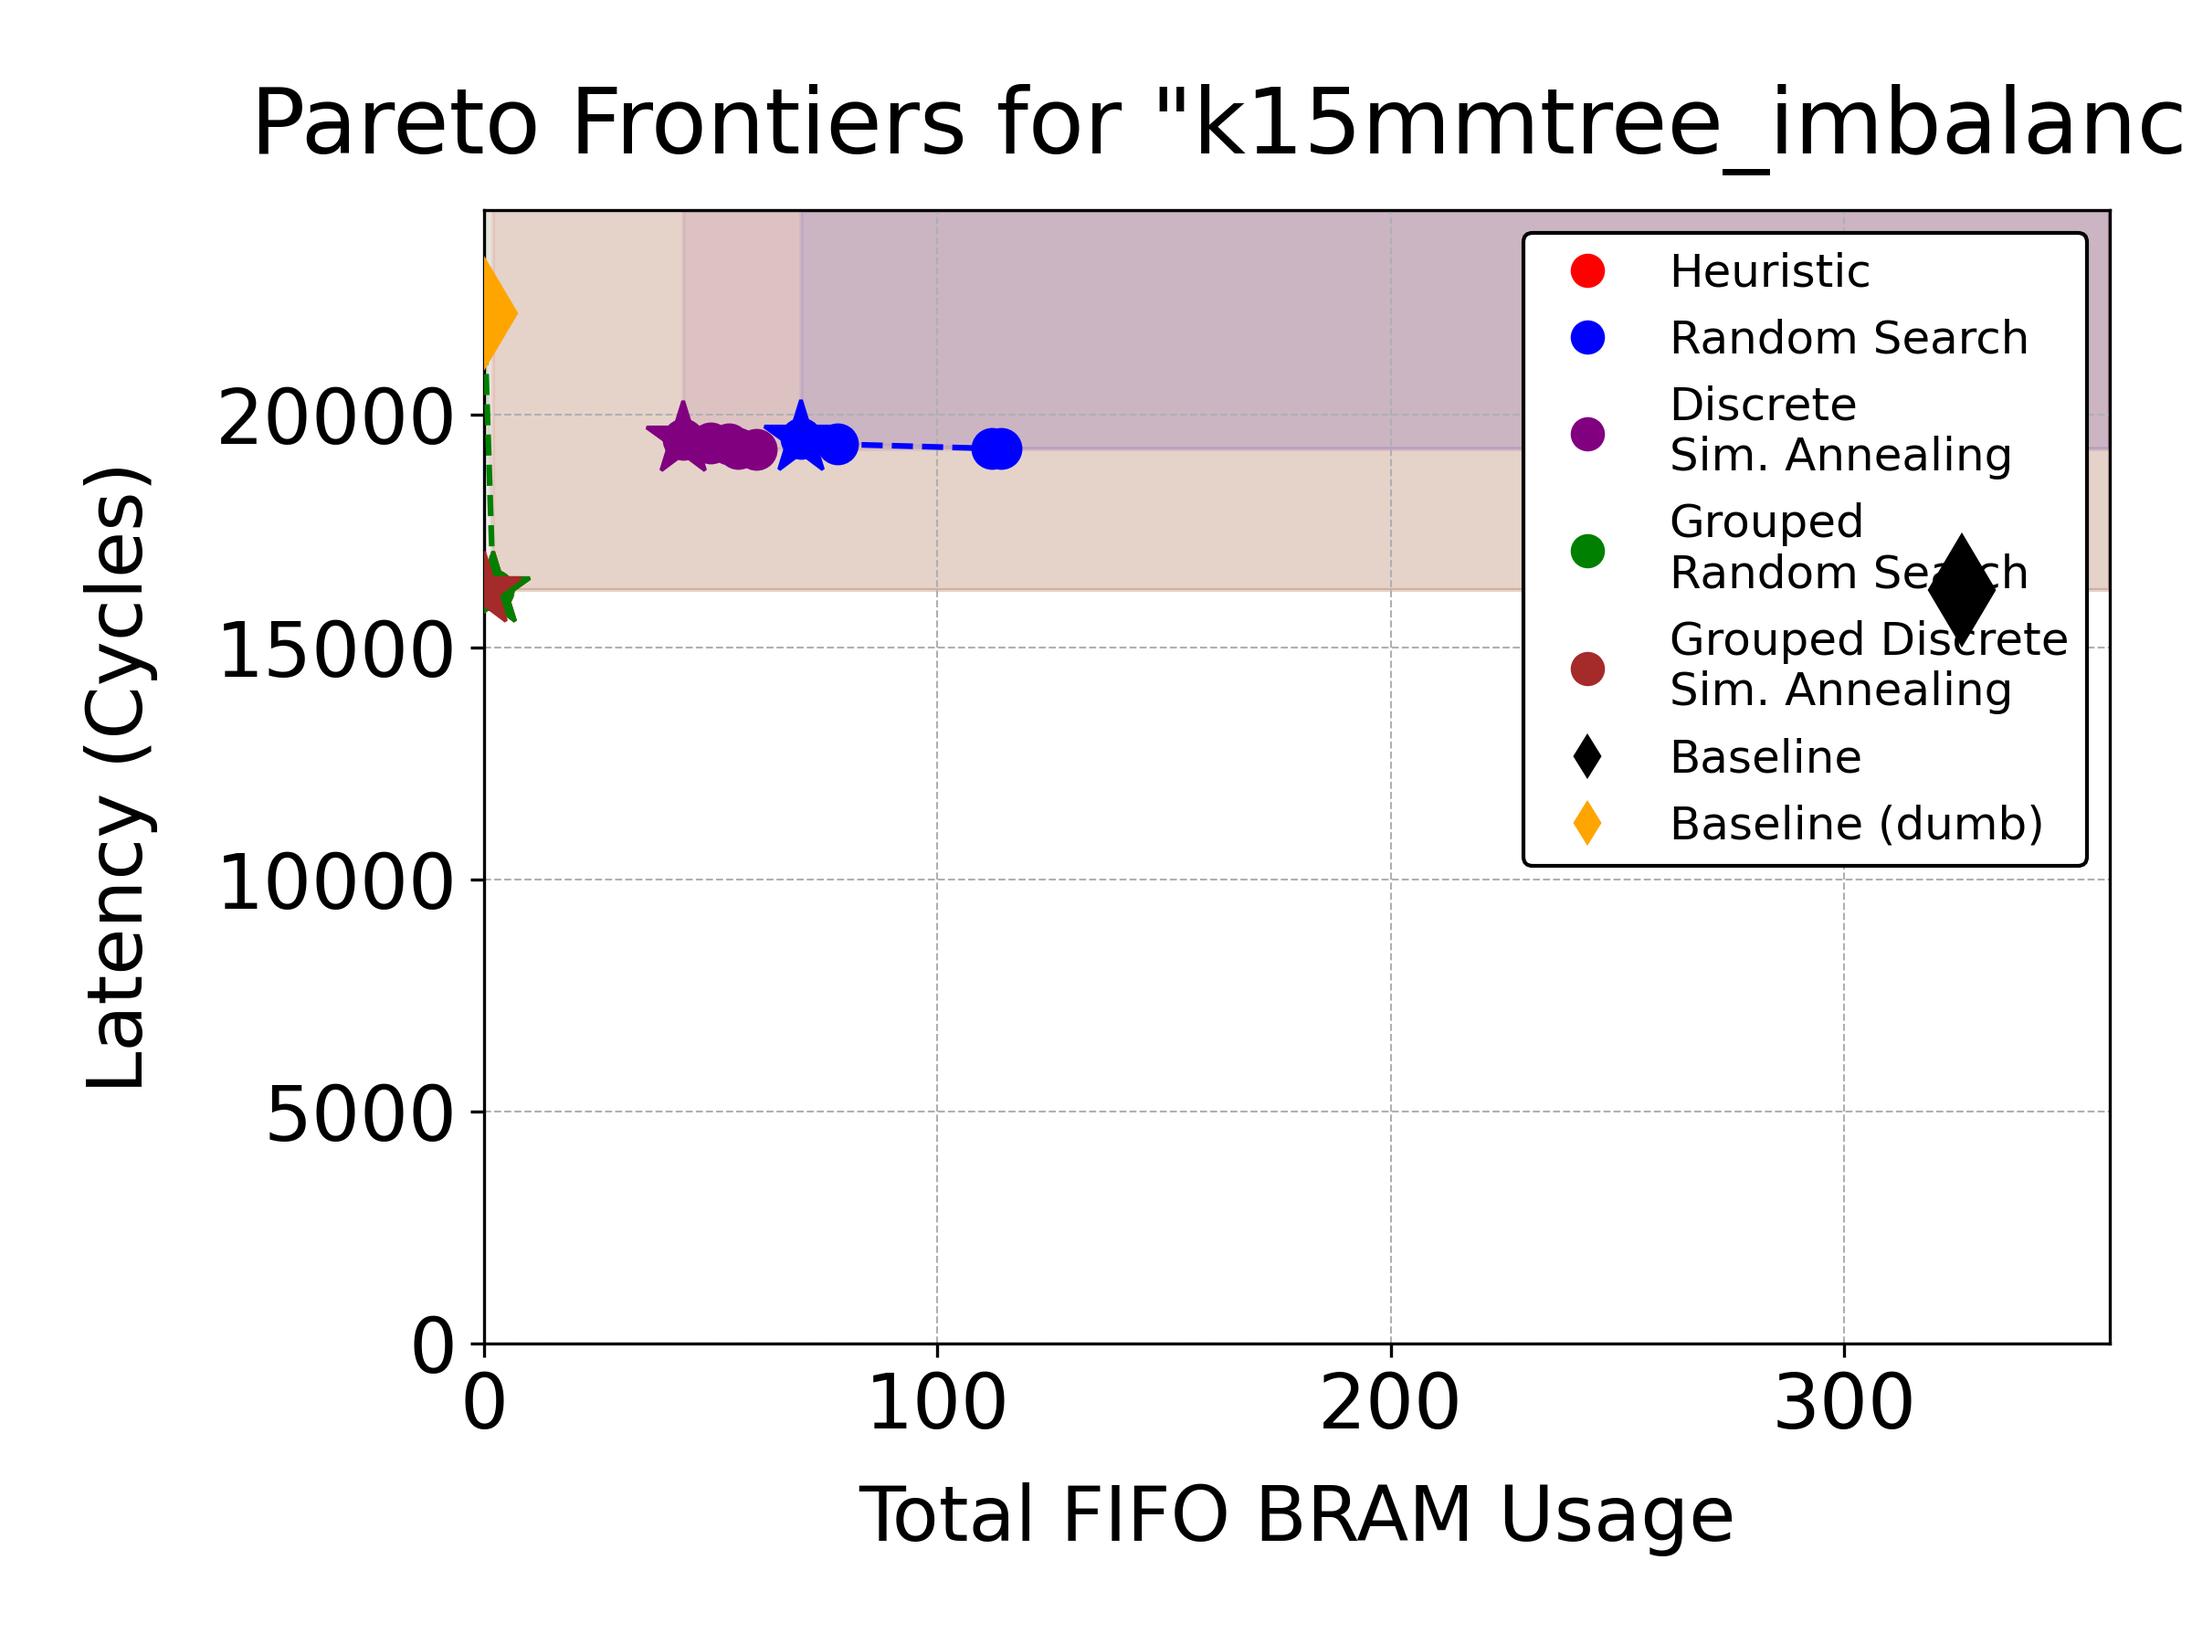
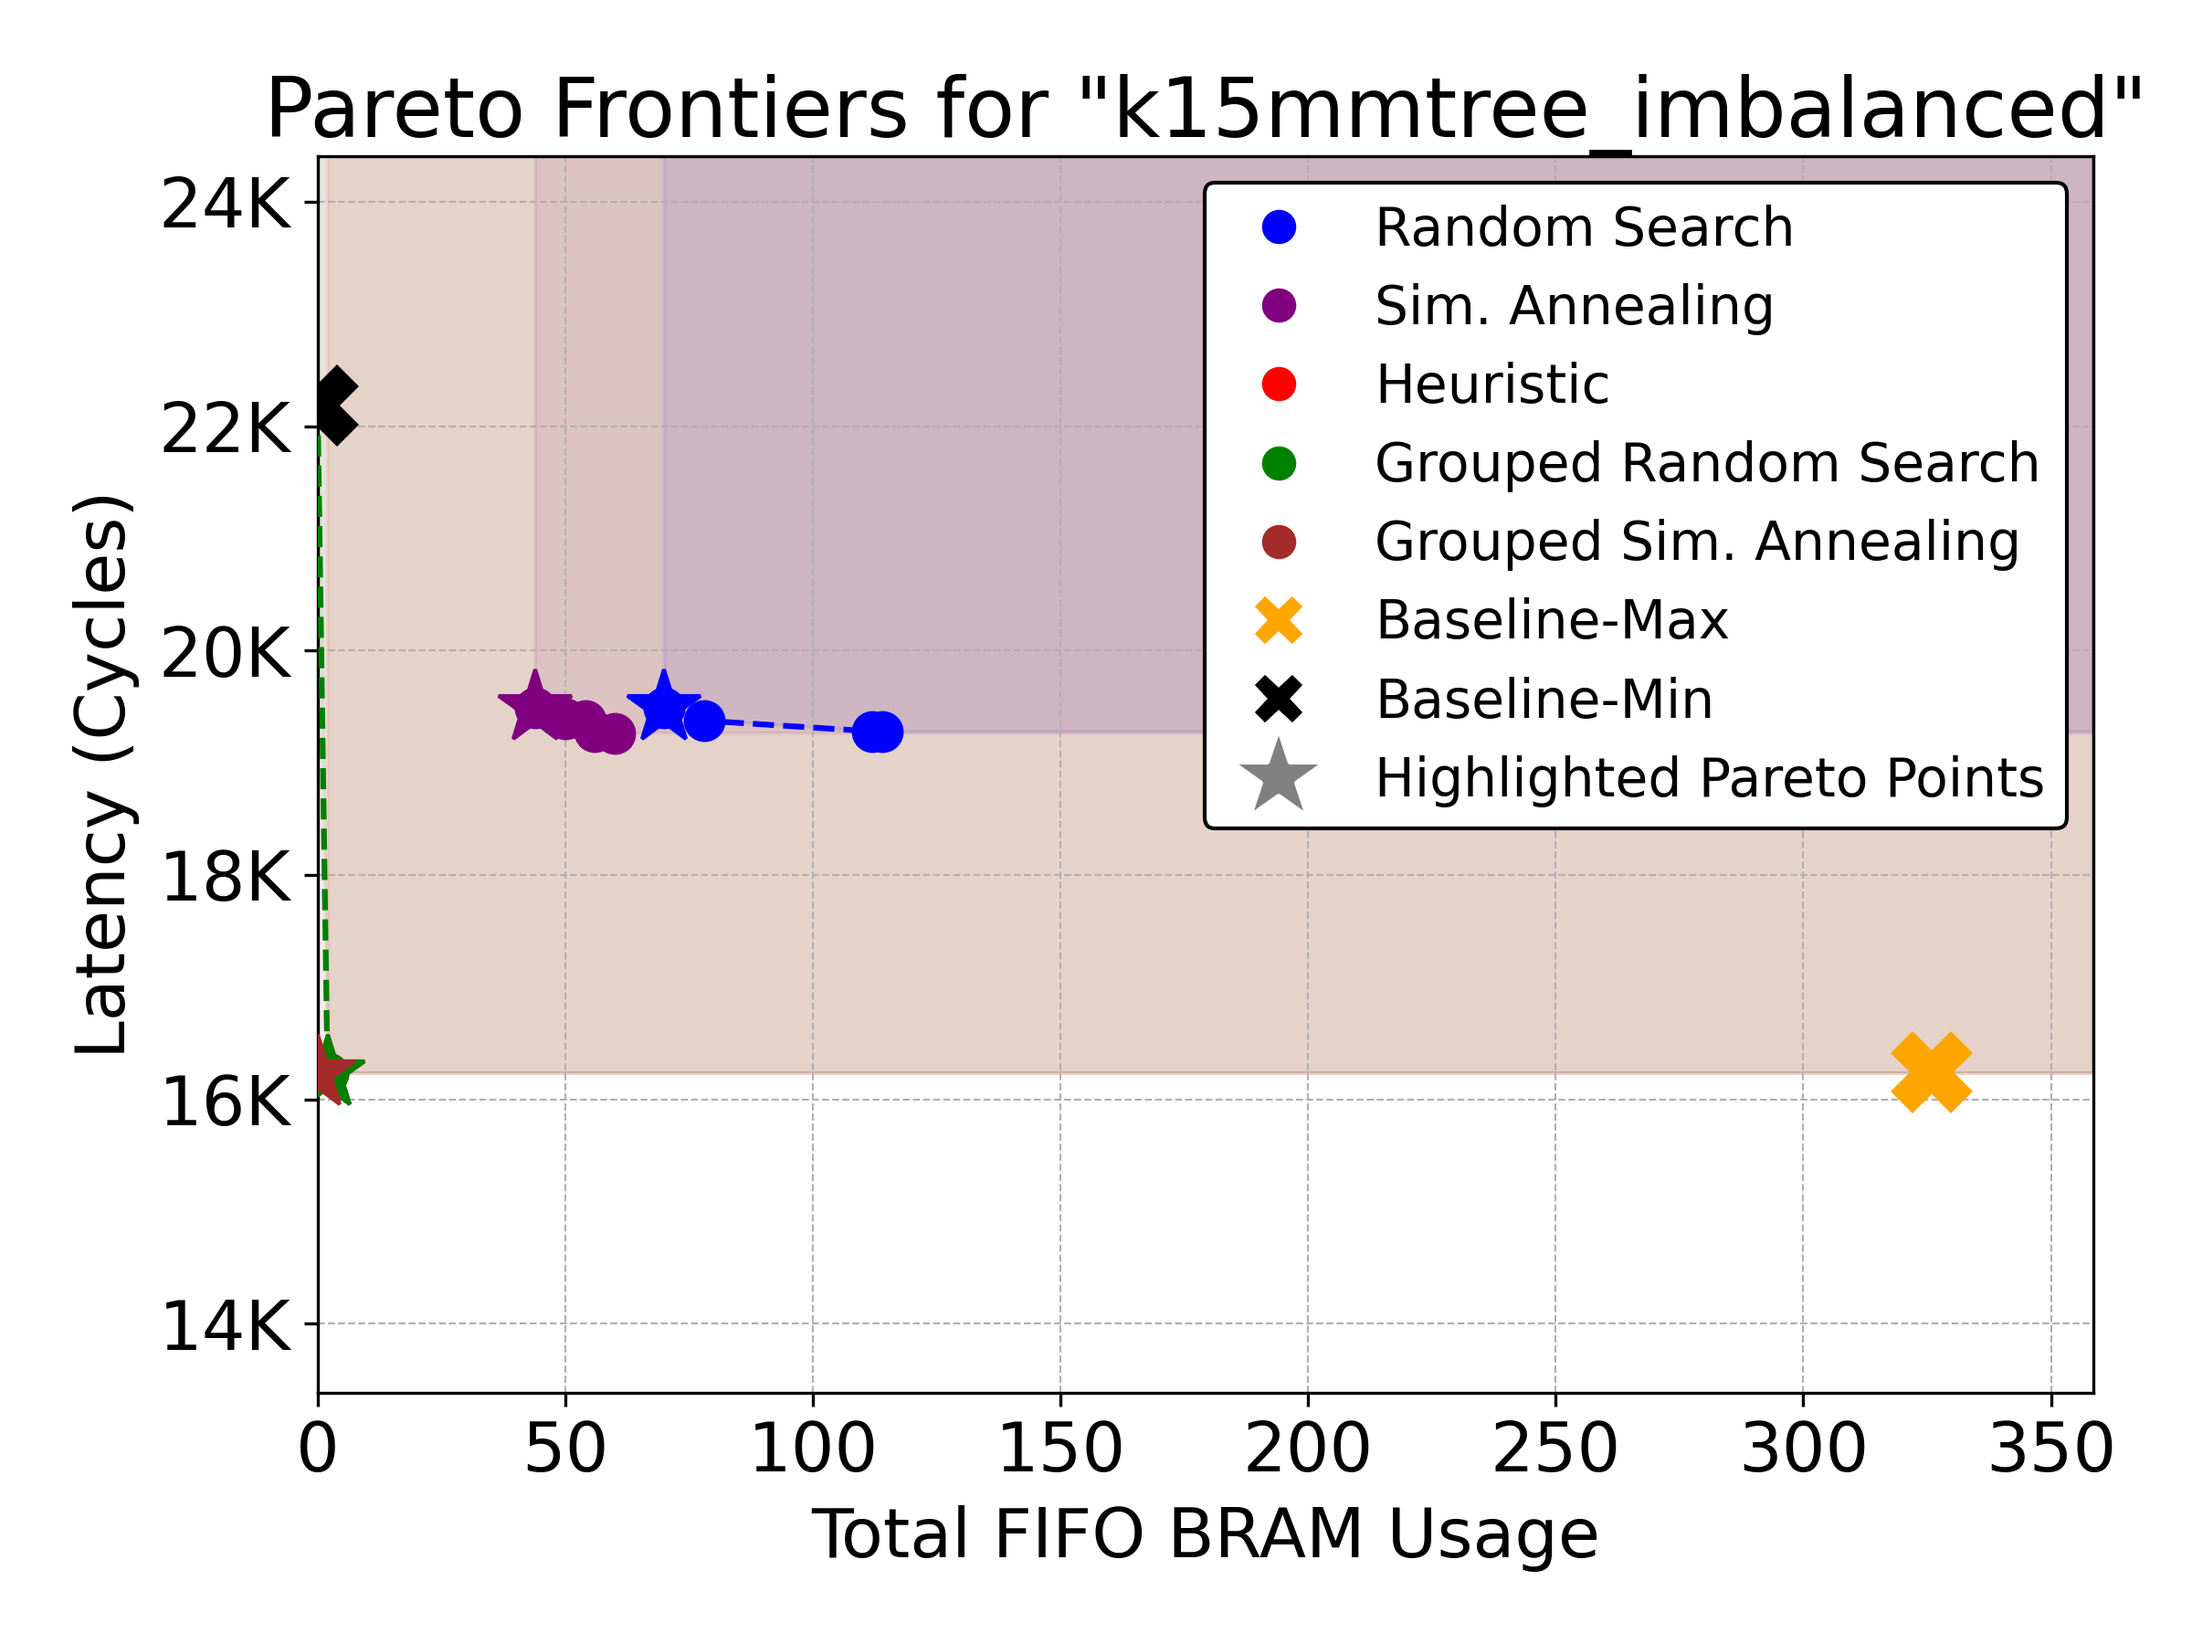
updates

diff --git a/experiments/main_run_v0/stats.py b/experiments/main_run_v0/stats.py
@@ -62,18 +62,18 @@ optimizer_to_color_map = {
     "random_search": "blue",
     "group_random_search": "green",
     "heuristic": "red",
-    "init_simulated_annealing": "orange",
+    "init_simulated_annealing": "cyan",
     "discrete_simulated_annealing": "purple",
     "grouped_discrete_simulated_annealing": "brown",
 }
 
 optimizer_to_name_map = {
     "random_search": "Random Search",
-    "group_random_search": "Grouped\nRandom Search",
+    "group_random_search": "Grouped Random Search",
     "heuristic": "Heuristic",
     "init_simulated_annealing": "Seeded Simulated Annealing",
-    "discrete_simulated_annealing": "Discrete\nSim. Annealing",
-    "grouped_discrete_simulated_annealing": "Grouped Discrete\nSim. Annealing",
+    "discrete_simulated_annealing": "Sim. Annealing",
+    "grouped_discrete_simulated_annealing": "Grouped Sim. Annealing",
 }
 
 
@@ -616,7 +616,7 @@ fig.suptitle(
 fig.tight_layout(h_pad=0.12)
 fig.savefig(DIR_FIGURES / "__baseline_comparison.png", dpi=300, transparent=True)
 
-exit()
+# exit()
 
 ################################################
 
@@ -749,6 +749,9 @@ def plot_design(design):
 
     df_points_for_this_design = df_points[df_points["design_name"] == design].copy()
 
+    # fomat font size
+    font = {"size": 18}
+    matplotlib.rc("font", **font)
     fig, ax = plt.subplots(figsize=(8, 6))
 
     ax.grid(which="both", linestyle="--", linewidth=0.5)
@@ -795,8 +798,14 @@ def plot_design(design):
             zorder=20,
         )
 
-        max_y = df_points_for_this_design["latency"].max() * 1.1
-        max_x = baseline_bram * 1.1
+        max_y = df_points_for_this_design["latency"].max()
+        max_x = baseline_bram
+
+        if not baseline_dumb_deadlock:
+            max_y = max(max_y, baseline_dumb_latency)
+
+        max_x = max_x * 1.1
+        max_y = max_y * 1.1
 
         vol, points = compute_hypervolume(
             (max_x, max_y),
@@ -817,11 +826,11 @@ def plot_design(design):
     ax.plot(
         baseline_bram,
         baseline_latency,
-        marker="d",
+        marker="X",
         markersize=20,
         linestyle=None,
-        label="baseline",
-        color="black",
+        label="Baseline-Max",
+        color="orange",
         zorder=100,
     )
 
@@ -829,22 +838,34 @@ def plot_design(design):
         ax.plot(
             baseline_dumb_bram,
             baseline_dumb_latency,
-            marker="d",
+            marker="X",
             markersize=20,
             linestyle=None,
-            label="baseline (dumb)",
-            color="orange",
+            label="Baseline-Min",
+            color="black",
             zorder=15,
         )
 
     ax.set_xlim(0, max_x)
-    ax.set_ylim(0, max_y)
+    ax.set_ylim(None, max_y)
+    # get the current auto y lim
+    min_y_auto = ax.get_ylim()[0]
+    new_min_y = min_y_auto - 0.1 * (max_y)
+    # new_min_y = max(0, new_min_y)
+    ax.set_ylim(new_min_y, max_y)
+
     # set tick at origin
     # ax.set_yticks(np.arange(15000, max_y + 1, 10000))
 
-    ax.set_xlabel("Total FIFO BRAM Usage", labelpad=10)
-    ax.set_ylabel("Latency (Cycles)", labelpad=15)
-    ax.set_title(f'Pareto Frontiers for "{design}"', pad=15)
+    # format y ticks to be in therms of K as in thousands
+    # current y tick labels
+    y_tick_labels = ax.get_yticks()
+    y_tick_labels = [f"{int(x / 1000)}K" for x in y_tick_labels]
+    ax.set_yticklabels(y_tick_labels)
+
+    ax.set_xlabel("Total FIFO BRAM Usage", labelpad=5)
+    ax.set_ylabel("Latency (Cycles)", labelpad=5)
+    ax.set_title(f'Pareto Frontiers for "{design}"', pad=1)
 
     handels = [
         *[
@@ -864,20 +885,30 @@ def plot_design(design):
             Line2D(
                 [0],
                 [0],
-                marker="d",
+                marker="X",
                 color="w",
-                markerfacecolor="black",
-                markersize=10,
-                label="Baseline",
+                markerfacecolor="orange",
+                markersize=14,
+                label="Baseline-Max",
             ),
             Line2D(
                 [0],
                 [0],
-                marker="d",
+                marker="X",
                 color="w",
-                markerfacecolor="orange",
-                markersize=10,
-                label="Baseline (dumb)",
+                markerfacecolor="black",
+                markersize=14,
+                label="Baseline-Min",
+            ),
+            # add a gray star
+            Line2D(
+                [0],
+                [0],
+                marker="*",
+                color="w",
+                markerfacecolor="gray",
+                markersize=25,
+                label="Highlighted Pareto Points",
             ),
         ]
     ]
@@ -885,7 +916,7 @@ def plot_design(design):
         handles=handels,
         # loc="lower center",
         loc="upper right",
-        fontsize=12,
+        fontsize=14,
         facecolor="white",
         edgecolor="black",
         framealpha=1,
@@ -906,7 +937,7 @@ def plot_design(design):
 
 def parallel_fn_plot_design(design):
     fig = plot_design(design)
-    fig.savefig(DIR_FIGURES / f"{design}.png", dpi=300)
+    fig.savefig(DIR_FIGURES / f"{design}.png", dpi=300, pad_inches=0)
     plt.close(fig)
 
 

diff --git a/experiments/main_run_v0/stats_2.py b/experiments/main_run_v0/stats_2.py
@@ -66,11 +66,11 @@ optimizer_to_color_map = {
 
 optimizer_to_name_map = {
     "random_search": "Random Search",
-    "group_random_search": "Grouped\nRandom Search",
+    "group_random_search": "Grouped Random Search",
     "heuristic": "Heuristic",
     "init_simulated_annealing": "Seeded Simulated Annealing",
-    "discrete_simulated_annealing": "Discrete\nSim. Annealing",
-    "grouped_discrete_simulated_annealing": "Grouped Discrete\nSim. Annealing",
+    "discrete_simulated_annealing": "Sim. Annealing",
+    "grouped_discrete_simulated_annealing": "Grouped Sim. Annealing",
 }
 
 
@@ -467,5 +467,5 @@ fig.suptitle(
     y=0.92,
 )
 
-fig.tight_layout(h_pad=0.0)
+fig.tight_layout(h_pad=0.5)
 fig.savefig(DIR_FIGURES / "__dumb_baseline.png", dpi=300, transparent=True)

diff --git a/experiments/main_run_v0/data/tab_hypervolume.tex b/experiments/main_run_v0/data/tab_hypervolume.tex
@@ -3,10 +3,7 @@
 \label{tab:hypervolume}
 \begin{tabular}{l|ccccccc}
 \toprule
-Design Name & Discrete
-Sim. Annealing & Grouped
-Random Search & Grouped Discrete
-Sim. Annealing & Heuristic & Seeded Simulated Annealing & Random Search \\
+Design Name & Sim. Annealing & Grouped Random Search & Grouped Sim. Annealing & Heuristic & Seeded Simulated Annealing & Random Search \\
 \midrule
 Autoencoder & 1.12x & 1.40x & 1.40x & 0.70x & 1.40x & 1.00x \\
 DepthwiseSeparableConvBlock & 2.01x & 2.76x & 2.76x & 2.76x & 2.76x & 1.00x \\

diff --git a/experiments/main_run_v0/data/tab_improvement.tex b/experiments/main_run_v0/data/tab_improvement.tex
@@ -3,10 +3,7 @@
 \label{tab:improvement}
 \begin{tabular}{lccccccc}
 \toprule
-Design Name & Discrete
-Sim. Annealing & Grouped
-Random Search & Grouped Discrete
-Sim. Annealing & Heuristic & Seeded Simulated Annealing & Random Search \\
+Design Name & Sim. Annealing & Grouped Random Search & Grouped Sim. Annealing & Heuristic & Seeded Simulated Annealing & Random Search \\
 \midrule
 Autoencoder & 1.26x & 1.42x & 1.43x & 1.15x & 1.42x & 1.21x \\
 DepthwiseSeparableConvBlock & 1.26x & 1.43x & 1.43x & 1.43x & 1.43x & 1.14x \\
